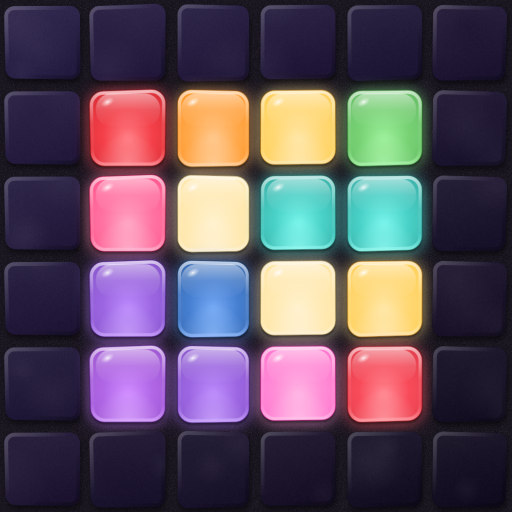
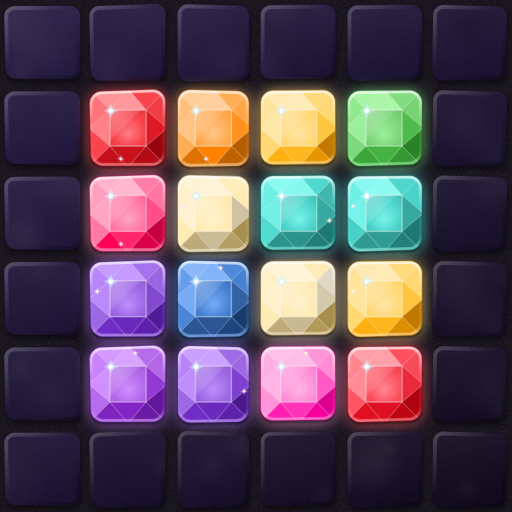
Mosaik: gemstone-cut tiles
Placed tiles become cut gems: a glowing table, twelve crown facets shaded
by the light direction, fine cut edges, a bright rim and one or two small
spectral star sparkles. Colored glow on the mortar stays. All static.

Claude-Session: https://claude.ai/code/session_015LyyaunsUhBrjZujMw7yoH

Changed region(s): [[0.1562, 0.1562, 0.8438, 0.8438]]

diff --git a/mosaik/index.html b/mosaik/index.html
@@ -1737,50 +1737,80 @@ window.MOSAIK_PUZZLES = {"pilz":{"c":".012332.000.3566.3..13689.86.1258999.8...7
     }
   }
 
-  // Juwelglas: leuchtender Kern, gewölbter Glanz, Lichtsaum unten, Funkelpunkt, farbiger Schein
+  // Edelstein-Schliff: leuchtende Tafel, zwölf Facetten, Schliffkanten, Feuer, farbiger Schein
   function paintGlass(c, S, P, base, v) {
-    const X = f => P + S * f;
+    const X = f => P + S * f, R = srng(v * 131 + Math.round(base[0] * 3 + base[1] * 5 + base[2] * 7));
     // farbiger Lichtschein auf dem Mörtel und kurzer Kontaktschatten
     c.save();
     c.shadowColor = rgba(lift(base, 0.35), 0.8); c.shadowBlur = S * 0.2; c.shadowOffsetY = S * 0.02;
-    stonePath(c, v, P, P, S, 0, 0.18); c.fillStyle = rgba(base, 1); c.fill();
+    stonePath(c, v, P, P, S, 0, 0.16); c.fillStyle = rgba(base, 1); c.fill();
     c.shadowColor = "rgba(0,0,0,.55)"; c.shadowBlur = S * 0.035; c.shadowOffsetY = S * 0.03;
     c.fill();
     c.restore();
 
-    c.save(); stonePath(c, v, P, P, S, 0, 0.18); c.clip();
-    // Körper: Kern leuchtet, Rand satt und tief
-    const core = c.createRadialGradient(X(0.5), X(0.62), S * 0.04, X(0.5), X(0.55), S * 0.78);
-    core.addColorStop(0, rgba(lift(base, 0.55), 1));
-    core.addColorStop(0.38, rgba(lift(base, 0.18), 1));
-    core.addColorStop(0.75, rgba(base, 1));
-    core.addColorStop(1, rgba(deep(base, 0.5), 1));
-    c.fillStyle = core; c.fillRect(P, P, S, S);
-    // gebündeltes Licht an der Unterkante
-    const caus = c.createRadialGradient(X(0.5), X(0.98), 0, X(0.5), X(0.98), S * 0.42);
-    caus.addColorStop(0, rgba(lift(base, 0.8), 0.8)); caus.addColorStop(1, rgba(lift(base, 0.8), 0));
-    c.fillStyle = caus; c.fillRect(P, P, S, S);
-    // gewölbter Glanz über der oberen Hälfte
-    rr(c, X(0.09), X(0.06), S * 0.82, S * 0.42, S * 0.2);
-    const gl = c.createLinearGradient(0, X(0.06), 0, X(0.48));
-    gl.addColorStop(0, "rgba(255,255,255,.5)"); gl.addColorStop(0.5, "rgba(255,255,255,.14)"); gl.addColorStop(1, "rgba(255,255,255,.02)");
-    c.fillStyle = gl; c.fill();
-    // Saum: oben hell, unten in der Eigenfarbe leuchtend
+    c.save(); stonePath(c, v, P, P, S, 0, 0.16); c.clip();
+    const t = 0.27;                         // Tafel-Einzug
+    const O = [[X(0), X(0)], [X(1), X(0)], [X(1), X(1)], [X(0), X(1)]];
+    const T = [[X(t), X(t)], [X(1 - t), X(t)], [X(1 - t), X(1 - t)], [X(t), X(1 - t)]];
+    const M = [[X(0.5), X(0)], [X(1), X(0.5)], [X(0.5), X(1)], [X(0), X(0.5)]];
+    const L = [-0.55, -0.83];               // Licht von oben links
+    const tone = (pts, bias) => {
+      let cx = 0, cy = 0; pts.forEach(([x, y]) => { cx += x; cy += y; }); cx = cx / pts.length - X(0.5); cy = cy / pts.length - X(0.5);
+      const n = Math.hypot(cx, cy) || 1;
+      let b = (cx / n) * L[0] + (cy / n) * L[1];
+      b = clamp(b * 0.85 + bias + (R() - 0.5) * 0.18, -1, 1);
+      return b >= 0 ? rgba(lift(base, 0.12 + 0.62 * b), 1) : rgba(deep(base, -0.55 * b), 1);
+    };
+    const facet = (pts, bias) => {
+      c.beginPath(); pts.forEach(([x, y], k) => k ? c.lineTo(x, y) : c.moveTo(x, y)); c.closePath();
+      c.fillStyle = tone(pts, bias); c.fill();
+    };
+    const edges = [];
+    for (let k = 0; k < 4; k++) {
+      const o0 = O[k], o1 = O[(k + 1) % 4], t0 = T[k], t1 = T[(k + 1) % 4], m = M[k];
+      facet([o0, m, t0], 0.12);
+      facet([m, o1, t1], -0.12);
+      facet([m, t1, t0], 0.28);
+      edges.push([o0, t0], [m, t0], [m, t1]);
+    }
+    // Tafel: leuchtet von innen
+    c.beginPath(); T.forEach(([x, y], k) => k ? c.lineTo(x, y) : c.moveTo(x, y)); c.closePath();
+    const tg = c.createRadialGradient(X(0.5), X(0.58), 0, X(0.5), X(0.5), S * 0.36);
+    tg.addColorStop(0, rgba(lift(base, 0.6), 1)); tg.addColorStop(0.6, rgba(lift(base, 0.22), 1)); tg.addColorStop(1, rgba(base, 1));
+    c.fillStyle = tg; c.fill();
+    // Spiegelung quer über die Tafel
+    c.save(); c.clip();
+    const gl = c.createLinearGradient(T[0][0], T[0][1], T[2][0], T[2][1]);
+    gl.addColorStop(0, "rgba(255,255,255,.42)"); gl.addColorStop(0.42, "rgba(255,255,255,.1)"); gl.addColorStop(0.43, "rgba(255,255,255,0)");
+    c.fillStyle = gl; c.fillRect(P, P, S, S);
+    c.restore();
+    // Schliffkanten
+    c.lineWidth = Math.max(0.8, S * 0.011); c.strokeStyle = "rgba(255,255,255,.28)";
+    c.beginPath(); edges.forEach(([a, b]) => { c.moveTo(a[0], a[1]); c.lineTo(b[0], b[1]); }); c.stroke();
+    c.lineWidth = Math.max(1, S * 0.016); c.strokeStyle = "rgba(255,255,255,.45)";
+    c.beginPath(); T.forEach(([x, y], k) => k ? c.lineTo(x, y) : c.moveTo(x, y)); c.closePath(); c.stroke();
+    // Lichtsaum: oben hell, unten in der Eigenfarbe
     const rim = c.createLinearGradient(0, P, 0, P + S);
-    rim.addColorStop(0, "rgba(255,255,255,.7)"); rim.addColorStop(0.45, "rgba(255,255,255,.08)");
-    rim.addColorStop(0.75, rgba(lift(base, 0.5), 0.15)); rim.addColorStop(1, rgba(lift(base, 0.85), 0.8));
-    c.lineWidth = Math.max(1.2, S * 0.045); c.strokeStyle = rim;
-    stonePath(c, v, P, P, S, S * 0.025, 0.16); c.stroke();
+    rim.addColorStop(0, "rgba(255,255,255,.75)"); rim.addColorStop(0.4, "rgba(255,255,255,.05)");
+    rim.addColorStop(0.8, rgba(lift(base, 0.6), 0.1)); rim.addColorStop(1, rgba(lift(base, 0.85), 0.7));
+    c.lineWidth = Math.max(1.2, S * 0.04); c.strokeStyle = rim;
+    stonePath(c, v, P, P, S, S * 0.02, 0.15); c.stroke();
     c.restore();
-    // Funkelpunkt
-    c.save(); c.translate(X(0.24), X(0.17)); c.rotate(-0.5);
-    const sp = c.createRadialGradient(0, 0, 0, 0, 0, S * 0.09);
-    sp.addColorStop(0, "rgba(255,255,255,.95)"); sp.addColorStop(0.35, "rgba(255,255,255,.5)"); sp.addColorStop(1, "rgba(255,255,255,0)");
-    c.scale(1, 0.55); c.fillStyle = sp; c.beginPath(); c.arc(0, 0, S * 0.09, 0, 7); c.fill();
-    c.restore();
+    // Feuer: kleine Lichtsterne mit einem Hauch Spektralfarbe
+    const star = (x, y, r, tint) => {
+      c.save(); c.translate(x, y);
+      const g = c.createRadialGradient(0, 0, 0, 0, 0, r);
+      g.addColorStop(0, "rgba(255,255,255,1)"); g.addColorStop(0.25, tint); g.addColorStop(1, "rgba(255,255,255,0)");
+      c.fillStyle = g;
+      c.beginPath(); c.moveTo(0, -r); c.quadraticCurveTo(0, 0, r, 0); c.quadraticCurveTo(0, 0, 0, r); c.quadraticCurveTo(0, 0, -r, 0); c.quadraticCurveTo(0, 0, 0, -r); c.fill();
+      c.beginPath(); c.arc(0, 0, r * 0.22, 0, 7); c.fillStyle = "rgba(255,255,255,.95)"; c.fill();
+      c.restore();
+    };
+    star(T[0][0] + S * 0.01, T[0][1] + S * 0.01, S * 0.13, "rgba(200,240,255,.7)");
+    if (R() < 0.6) { const k = Math.floor(R() * 4); star(M[k][0] * 0.6 + T[(k + 1) % 4][0] * 0.4, M[k][1] * 0.6 + T[(k + 1) % 4][1] * 0.4, S * 0.07, R() < 0.5 ? "rgba(255,200,235,.6)" : "rgba(255,240,190,.6)"); }
     // feine Kontur
-    c.lineWidth = Math.max(1, S * 0.012); c.strokeStyle = rgba(deep(base, 0.65), 0.55);
-    stonePath(c, v, P, P, S, 0, 0.18); c.stroke();
+    c.lineWidth = Math.max(1, S * 0.012); c.strokeStyle = rgba(deep(base, 0.65), 0.6);
+    stonePath(c, v, P, P, S, 0, 0.16); c.stroke();
   }
 
   // Mörtelbett als Muster für das Brett

diff --git a/mosaik/src/app.js b/mosaik/src/app.js
@@ -284,50 +284,80 @@
     }
   }
 
-  // Juwelglas: leuchtender Kern, gewölbter Glanz, Lichtsaum unten, Funkelpunkt, farbiger Schein
+  // Edelstein-Schliff: leuchtende Tafel, zwölf Facetten, Schliffkanten, Feuer, farbiger Schein
   function paintGlass(c, S, P, base, v) {
-    const X = f => P + S * f;
+    const X = f => P + S * f, R = srng(v * 131 + Math.round(base[0] * 3 + base[1] * 5 + base[2] * 7));
     // farbiger Lichtschein auf dem Mörtel und kurzer Kontaktschatten
     c.save();
     c.shadowColor = rgba(lift(base, 0.35), 0.8); c.shadowBlur = S * 0.2; c.shadowOffsetY = S * 0.02;
-    stonePath(c, v, P, P, S, 0, 0.18); c.fillStyle = rgba(base, 1); c.fill();
+    stonePath(c, v, P, P, S, 0, 0.16); c.fillStyle = rgba(base, 1); c.fill();
     c.shadowColor = "rgba(0,0,0,.55)"; c.shadowBlur = S * 0.035; c.shadowOffsetY = S * 0.03;
     c.fill();
     c.restore();
 
-    c.save(); stonePath(c, v, P, P, S, 0, 0.18); c.clip();
-    // Körper: Kern leuchtet, Rand satt und tief
-    const core = c.createRadialGradient(X(0.5), X(0.62), S * 0.04, X(0.5), X(0.55), S * 0.78);
-    core.addColorStop(0, rgba(lift(base, 0.55), 1));
-    core.addColorStop(0.38, rgba(lift(base, 0.18), 1));
-    core.addColorStop(0.75, rgba(base, 1));
-    core.addColorStop(1, rgba(deep(base, 0.5), 1));
-    c.fillStyle = core; c.fillRect(P, P, S, S);
-    // gebündeltes Licht an der Unterkante
-    const caus = c.createRadialGradient(X(0.5), X(0.98), 0, X(0.5), X(0.98), S * 0.42);
-    caus.addColorStop(0, rgba(lift(base, 0.8), 0.8)); caus.addColorStop(1, rgba(lift(base, 0.8), 0));
-    c.fillStyle = caus; c.fillRect(P, P, S, S);
-    // gewölbter Glanz über der oberen Hälfte
-    rr(c, X(0.09), X(0.06), S * 0.82, S * 0.42, S * 0.2);
-    const gl = c.createLinearGradient(0, X(0.06), 0, X(0.48));
-    gl.addColorStop(0, "rgba(255,255,255,.5)"); gl.addColorStop(0.5, "rgba(255,255,255,.14)"); gl.addColorStop(1, "rgba(255,255,255,.02)");
-    c.fillStyle = gl; c.fill();
-    // Saum: oben hell, unten in der Eigenfarbe leuchtend
+    c.save(); stonePath(c, v, P, P, S, 0, 0.16); c.clip();
+    const t = 0.27;                         // Tafel-Einzug
+    const O = [[X(0), X(0)], [X(1), X(0)], [X(1), X(1)], [X(0), X(1)]];
+    const T = [[X(t), X(t)], [X(1 - t), X(t)], [X(1 - t), X(1 - t)], [X(t), X(1 - t)]];
+    const M = [[X(0.5), X(0)], [X(1), X(0.5)], [X(0.5), X(1)], [X(0), X(0.5)]];
+    const L = [-0.55, -0.83];               // Licht von oben links
+    const tone = (pts, bias) => {
+      let cx = 0, cy = 0; pts.forEach(([x, y]) => { cx += x; cy += y; }); cx = cx / pts.length - X(0.5); cy = cy / pts.length - X(0.5);
+      const n = Math.hypot(cx, cy) || 1;
+      let b = (cx / n) * L[0] + (cy / n) * L[1];
+      b = clamp(b * 0.85 + bias + (R() - 0.5) * 0.18, -1, 1);
+      return b >= 0 ? rgba(lift(base, 0.12 + 0.62 * b), 1) : rgba(deep(base, -0.55 * b), 1);
+    };
+    const facet = (pts, bias) => {
+      c.beginPath(); pts.forEach(([x, y], k) => k ? c.lineTo(x, y) : c.moveTo(x, y)); c.closePath();
+      c.fillStyle = tone(pts, bias); c.fill();
+    };
+    const edges = [];
+    for (let k = 0; k < 4; k++) {
+      const o0 = O[k], o1 = O[(k + 1) % 4], t0 = T[k], t1 = T[(k + 1) % 4], m = M[k];
+      facet([o0, m, t0], 0.12);
+      facet([m, o1, t1], -0.12);
+      facet([m, t1, t0], 0.28);
+      edges.push([o0, t0], [m, t0], [m, t1]);
+    }
+    // Tafel: leuchtet von innen
+    c.beginPath(); T.forEach(([x, y], k) => k ? c.lineTo(x, y) : c.moveTo(x, y)); c.closePath();
+    const tg = c.createRadialGradient(X(0.5), X(0.58), 0, X(0.5), X(0.5), S * 0.36);
+    tg.addColorStop(0, rgba(lift(base, 0.6), 1)); tg.addColorStop(0.6, rgba(lift(base, 0.22), 1)); tg.addColorStop(1, rgba(base, 1));
+    c.fillStyle = tg; c.fill();
+    // Spiegelung quer über die Tafel
+    c.save(); c.clip();
+    const gl = c.createLinearGradient(T[0][0], T[0][1], T[2][0], T[2][1]);
+    gl.addColorStop(0, "rgba(255,255,255,.42)"); gl.addColorStop(0.42, "rgba(255,255,255,.1)"); gl.addColorStop(0.43, "rgba(255,255,255,0)");
+    c.fillStyle = gl; c.fillRect(P, P, S, S);
+    c.restore();
+    // Schliffkanten
+    c.lineWidth = Math.max(0.8, S * 0.011); c.strokeStyle = "rgba(255,255,255,.28)";
+    c.beginPath(); edges.forEach(([a, b]) => { c.moveTo(a[0], a[1]); c.lineTo(b[0], b[1]); }); c.stroke();
+    c.lineWidth = Math.max(1, S * 0.016); c.strokeStyle = "rgba(255,255,255,.45)";
+    c.beginPath(); T.forEach(([x, y], k) => k ? c.lineTo(x, y) : c.moveTo(x, y)); c.closePath(); c.stroke();
+    // Lichtsaum: oben hell, unten in der Eigenfarbe
     const rim = c.createLinearGradient(0, P, 0, P + S);
-    rim.addColorStop(0, "rgba(255,255,255,.7)"); rim.addColorStop(0.45, "rgba(255,255,255,.08)");
-    rim.addColorStop(0.75, rgba(lift(base, 0.5), 0.15)); rim.addColorStop(1, rgba(lift(base, 0.85), 0.8));
-    c.lineWidth = Math.max(1.2, S * 0.045); c.strokeStyle = rim;
-    stonePath(c, v, P, P, S, S * 0.025, 0.16); c.stroke();
+    rim.addColorStop(0, "rgba(255,255,255,.75)"); rim.addColorStop(0.4, "rgba(255,255,255,.05)");
+    rim.addColorStop(0.8, rgba(lift(base, 0.6), 0.1)); rim.addColorStop(1, rgba(lift(base, 0.85), 0.7));
+    c.lineWidth = Math.max(1.2, S * 0.04); c.strokeStyle = rim;
+    stonePath(c, v, P, P, S, S * 0.02, 0.15); c.stroke();
     c.restore();
-    // Funkelpunkt
-    c.save(); c.translate(X(0.24), X(0.17)); c.rotate(-0.5);
-    const sp = c.createRadialGradient(0, 0, 0, 0, 0, S * 0.09);
-    sp.addColorStop(0, "rgba(255,255,255,.95)"); sp.addColorStop(0.35, "rgba(255,255,255,.5)"); sp.addColorStop(1, "rgba(255,255,255,0)");
-    c.scale(1, 0.55); c.fillStyle = sp; c.beginPath(); c.arc(0, 0, S * 0.09, 0, 7); c.fill();
-    c.restore();
+    // Feuer: kleine Lichtsterne mit einem Hauch Spektralfarbe
+    const star = (x, y, r, tint) => {
+      c.save(); c.translate(x, y);
+      const g = c.createRadialGradient(0, 0, 0, 0, 0, r);
+      g.addColorStop(0, "rgba(255,255,255,1)"); g.addColorStop(0.25, tint); g.addColorStop(1, "rgba(255,255,255,0)");
+      c.fillStyle = g;
+      c.beginPath(); c.moveTo(0, -r); c.quadraticCurveTo(0, 0, r, 0); c.quadraticCurveTo(0, 0, 0, r); c.quadraticCurveTo(0, 0, -r, 0); c.quadraticCurveTo(0, 0, 0, -r); c.fill();
+      c.beginPath(); c.arc(0, 0, r * 0.22, 0, 7); c.fillStyle = "rgba(255,255,255,.95)"; c.fill();
+      c.restore();
+    };
+    star(T[0][0] + S * 0.01, T[0][1] + S * 0.01, S * 0.13, "rgba(200,240,255,.7)");
+    if (R() < 0.6) { const k = Math.floor(R() * 4); star(M[k][0] * 0.6 + T[(k + 1) % 4][0] * 0.4, M[k][1] * 0.6 + T[(k + 1) % 4][1] * 0.4, S * 0.07, R() < 0.5 ? "rgba(255,200,235,.6)" : "rgba(255,240,190,.6)"); }
     // feine Kontur
-    c.lineWidth = Math.max(1, S * 0.012); c.strokeStyle = rgba(deep(base, 0.65), 0.55);
-    stonePath(c, v, P, P, S, 0, 0.18); c.stroke();
+    c.lineWidth = Math.max(1, S * 0.012); c.strokeStyle = rgba(deep(base, 0.65), 0.6);
+    stonePath(c, v, P, P, S, 0, 0.16); c.stroke();
   }
 
   // Mörtelbett als Muster für das Brett
